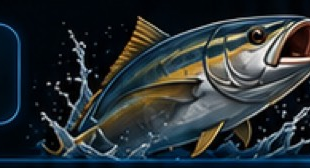
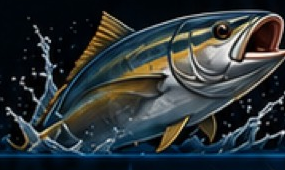
Add files via upload
Update

diff --git a/style.css b/style.css
@@ -5955,3 +5955,91 @@ body.reference-layout-v3 .top-header .header-actions .header-action {
   width: 32px !important;
   height: 32px !important;
 }
+
+/* =========================================================
+   HEADER v2 — equal fish spacing, full faces, centered star
+========================================================= */
+body.reference-layout-v3 .top-header.final-master-header {
+  display: grid !important;
+  grid-template-columns: 32px minmax(0, 1fr) 72px !important;
+  column-gap: 4px !important;
+  align-items: center !important;
+  padding: 4px 6px !important;
+  overflow: hidden !important;
+}
+body.reference-layout-v3 .top-header .menu-button {
+  width: 32px !important;
+  height: 32px !important;
+  margin: 0 !important;
+  display: grid !important;
+  place-items: center !important;
+}
+/* Equal columns for left fish | title | right fish */
+body.reference-layout-v3 .top-header .header-brand-lockup.brand-area {
+  display: grid !important;
+  grid-template-columns: 1fr auto 1fr !important;
+  column-gap: 6px !important;
+  align-items: center !important;
+  min-width: 0 !important;
+}
+body.reference-layout-v3 .top-header .header-fish-asset.brand-fish {
+  width: auto !important;
+  max-width: 100% !important;
+  height: 48px !important;
+  object-fit: contain !important;
+  display: block !important;
+}
+body.reference-layout-v3 .top-header .header-fish-left {
+  justify-self: end !important;
+  object-position: center center !important;
+  margin: 0 !important;
+  transform: none !important;
+}
+body.reference-layout-v3 .top-header .header-fish-right {
+  justify-self: start !important;
+  object-position: center center !important;
+  margin: 0 !important;
+  transform: none !important;
+}
+body.reference-layout-v3 .top-header .header-brand-center {
+  justify-self: center !important;
+  text-align: center !important;
+  padding: 0 4px !important;
+  z-index: 2 !important;
+}
+body.reference-layout-v3 .top-header .header-brand-title {
+  font-size: 11px !important;
+  white-space: nowrap !important;
+  margin: 0 !important;
+}
+body.reference-layout-v3 .top-header .header-actions {
+  display: grid !important;
+  grid-template-columns: 34px 34px !important;
+  gap: 6px !important;
+  align-items: center !important;
+}
+body.reference-layout-v3 .top-header .header-actions .header-action {
+  width: 34px !important;
+  height: 34px !important;
+  display: grid !important;
+  place-items: center !important;
+  padding: 0 !important;
+  margin: 0 !important;
+}
+body.reference-layout-v3 .top-header .header-actions .header-action svg,
+body.reference-layout-v3 .top-header .header-actions .header-action i,
+body.reference-layout-v3 .top-header .header-actions .header-action .icon {
+  margin: 0 !important;
+  display: block !important;
+}
+body.reference-layout-v3 .top-header .favorite-button,
+body.reference-layout-v3 .top-header [data-action="favorite"] {
+  display: grid !important;
+  place-items: center !important;
+}
+body.reference-layout-v3 .top-header .favorite-button svg,
+body.reference-layout-v3 .top-header [data-action="favorite"] svg {
+  width: 16px !important;
+  height: 16px !important;
+  margin: 0 auto !important;
+}
